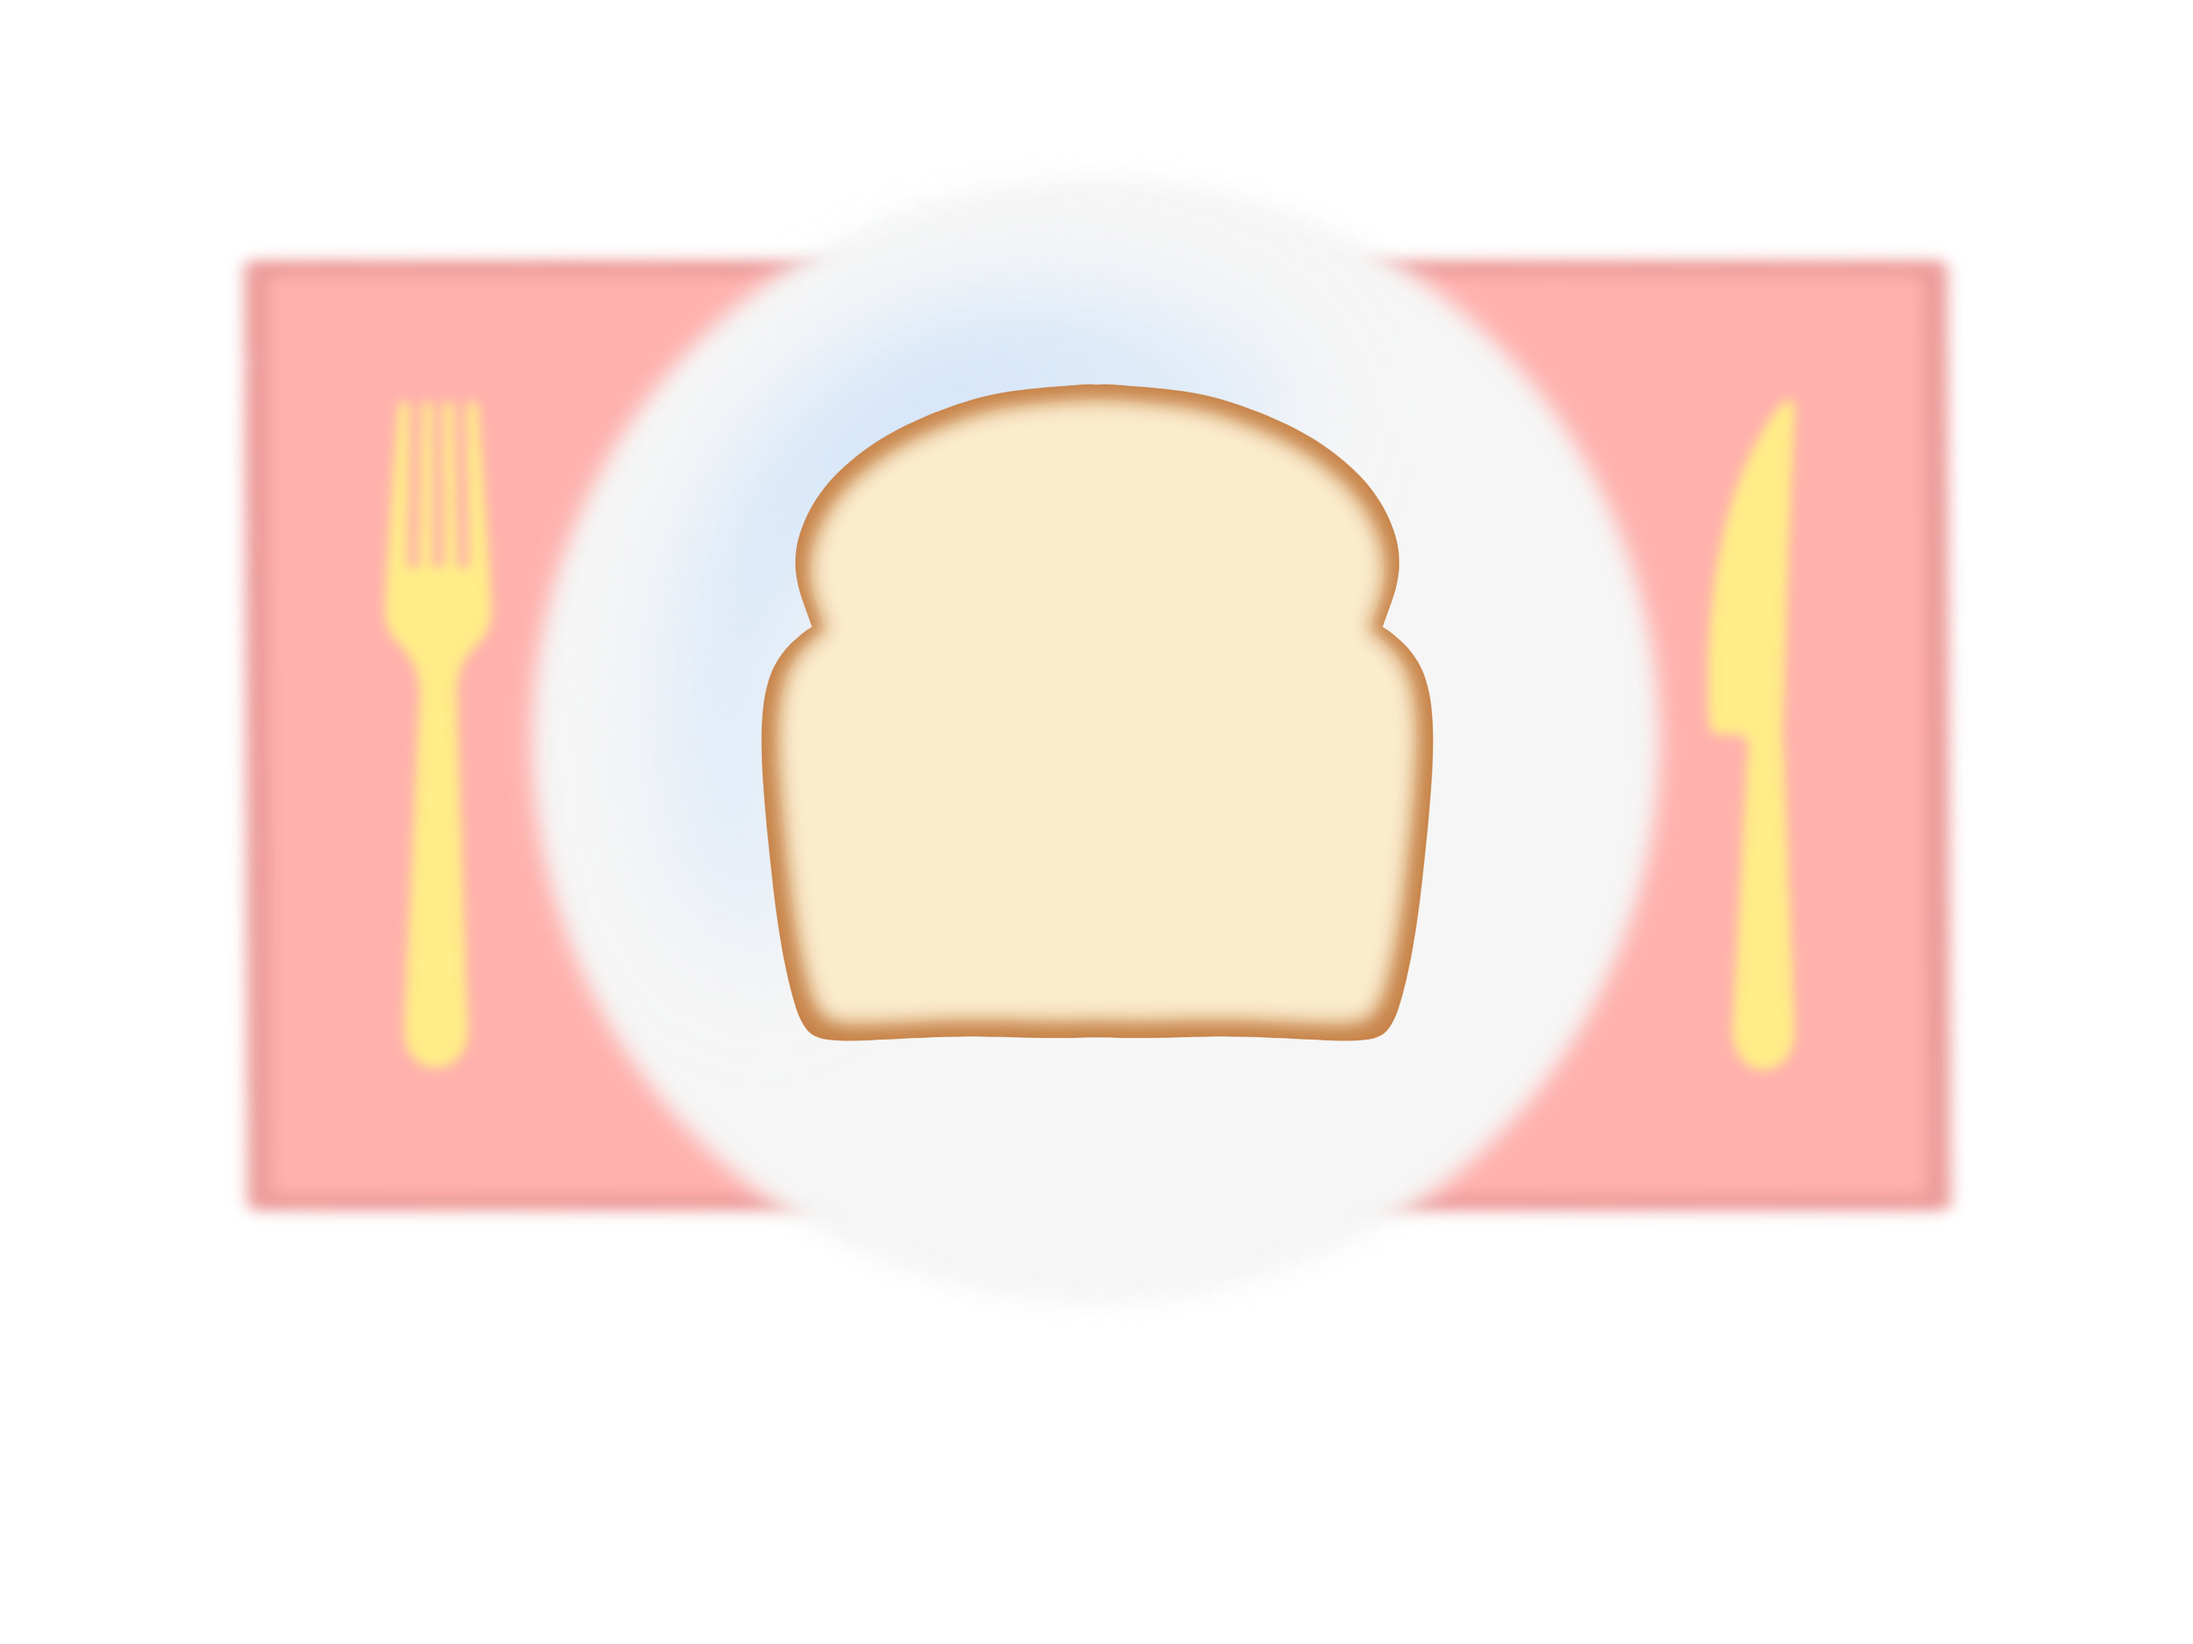
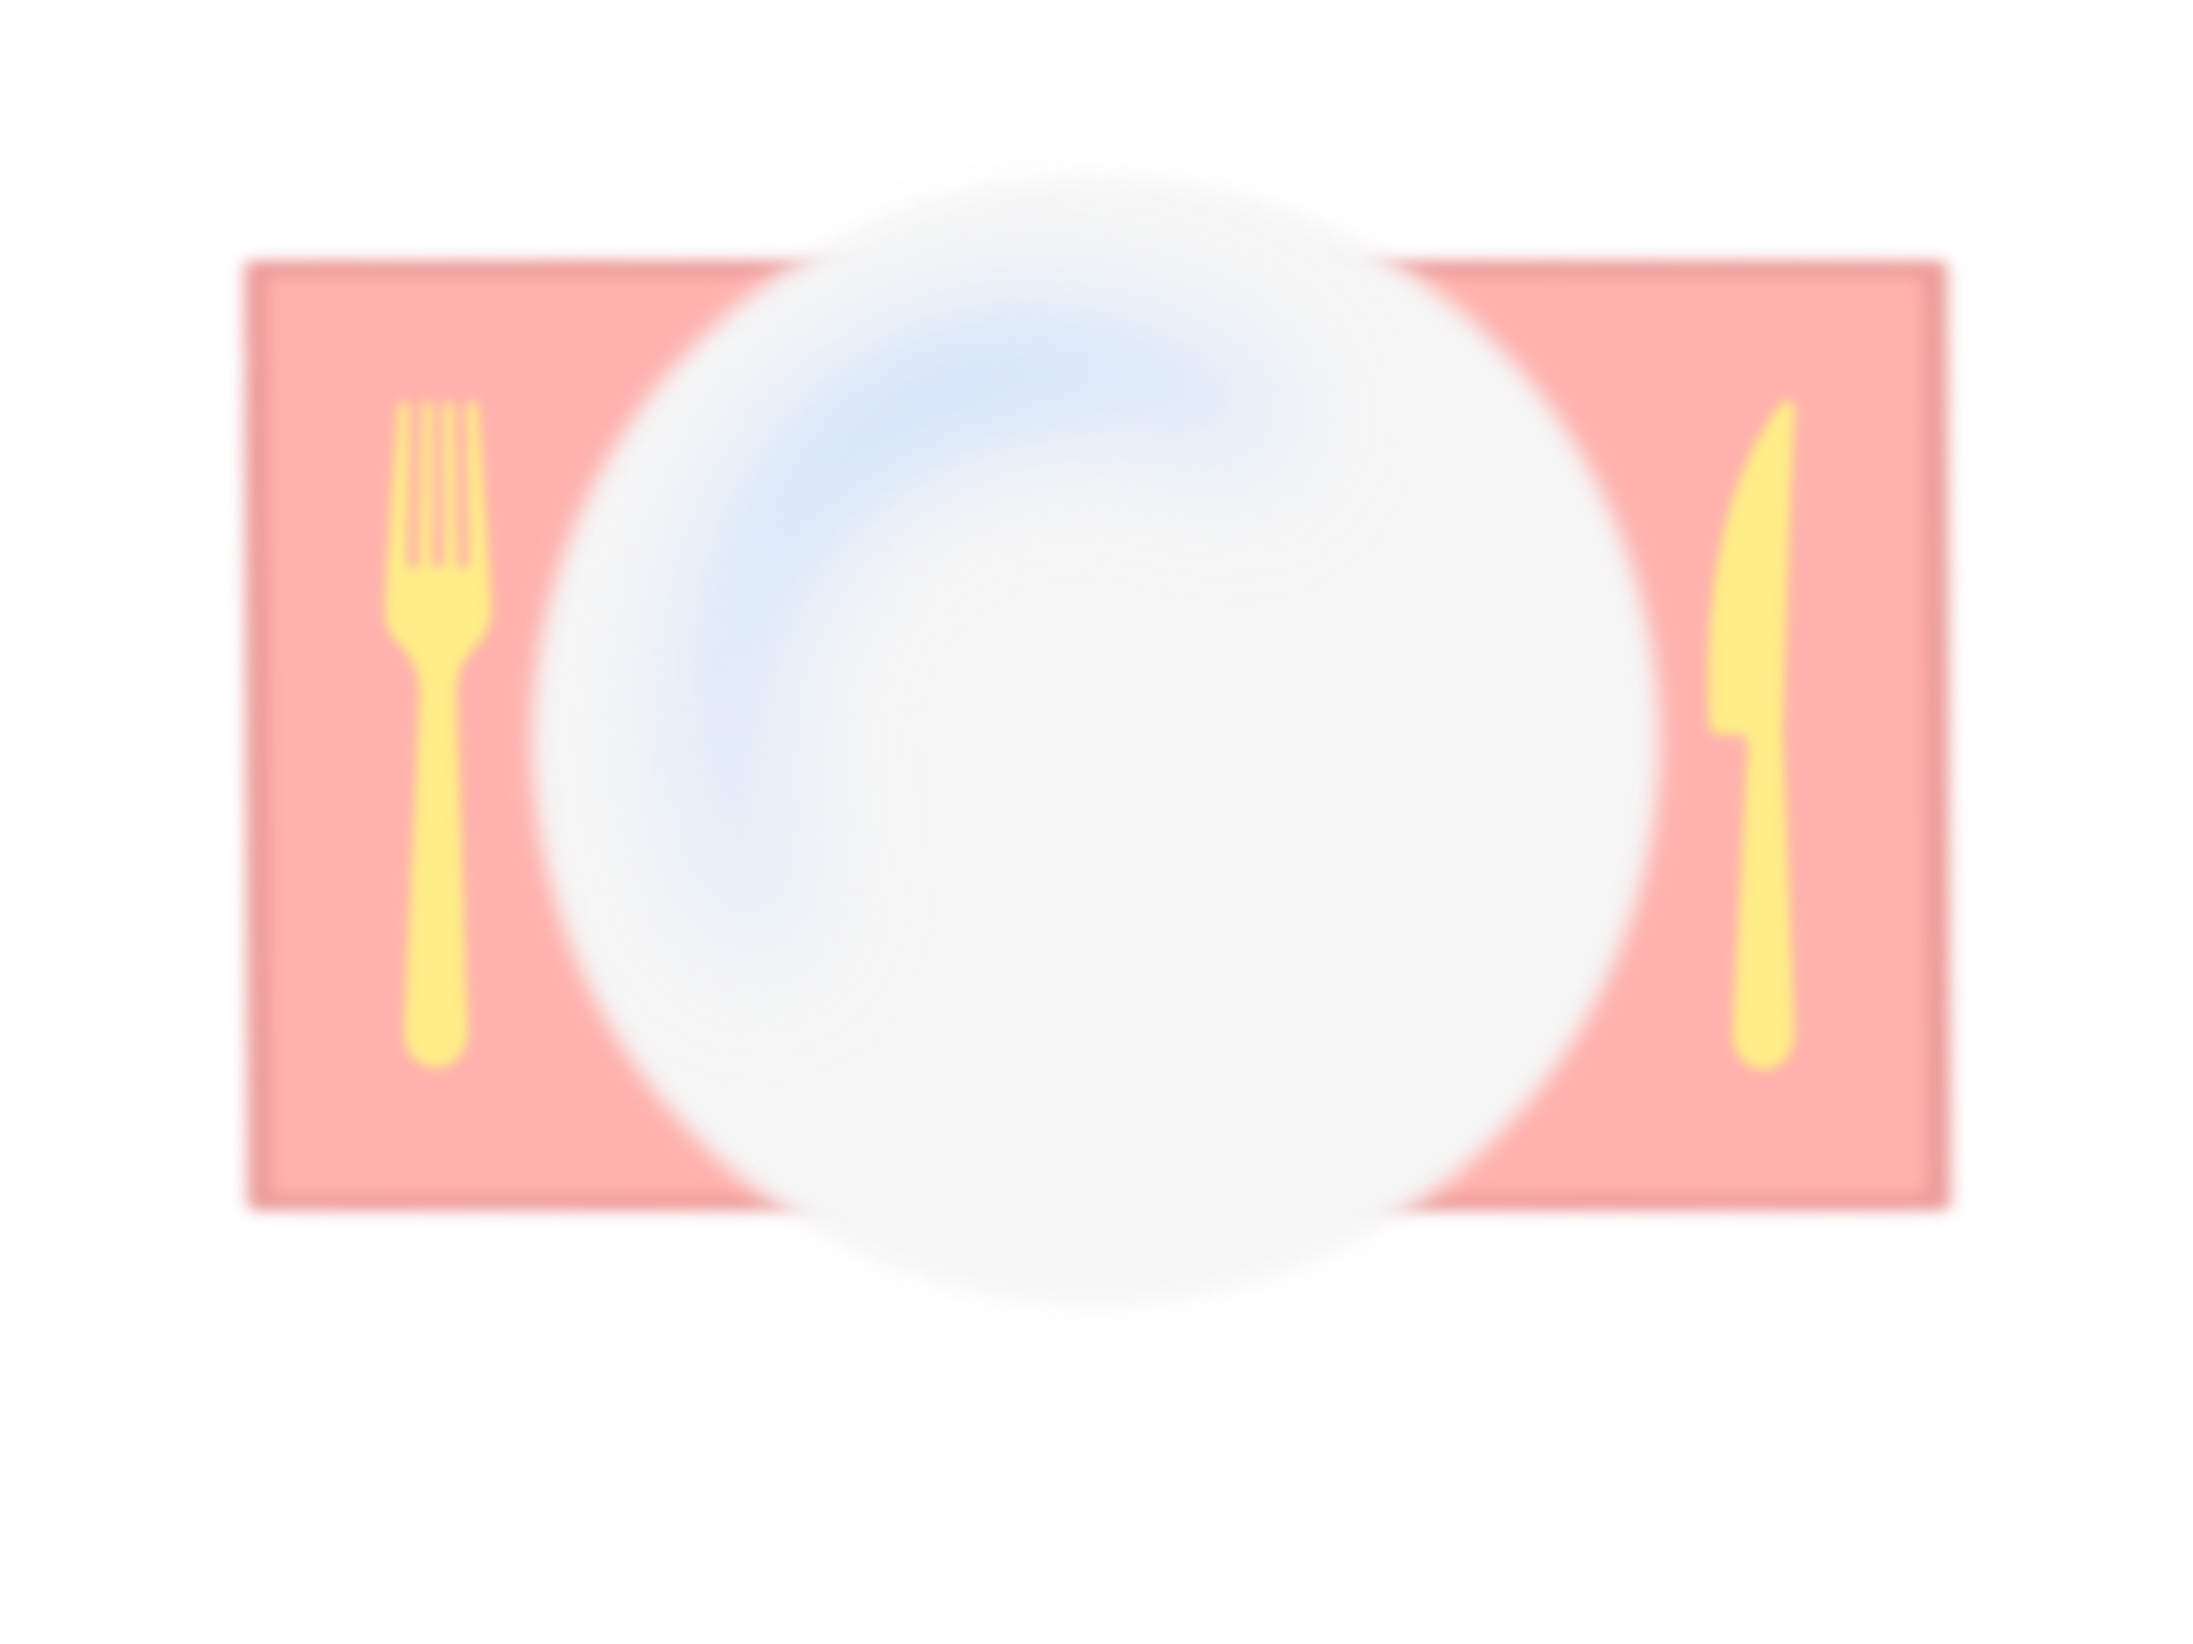
push

Changed region(s): [[0.3422, 0.2188, 0.6534, 0.6562]]

diff --git a/project-3/script.js b/project-3/script.js
@@ -23,12 +23,21 @@ function addIngredient(type) {
 
   ingredientStack.push(img);
   stack.appendChild(img);
+
+  // Save the sandwich stack to localStorage
+  saveSandwichToLocalStorage();
+}
+
+function saveSandwichToLocalStorage() {
+  const savedIngredients = ingredientStack.map(img => img.src);
+  localStorage.setItem("sandwich", JSON.stringify(savedIngredients));
 }
 
 function resetSandwich() {
   const stack = document.getElementById("ingredient-stack");
   stack.innerHTML = "";
   ingredientStack.length = 0;
+  localStorage.removeItem("sandwich"); // Clear saved sandwich when reset
 }
 
 function undoIngredient() {
@@ -36,12 +45,19 @@ function undoIngredient() {
     const stack = document.getElementById("ingredient-stack");
     const last = ingredientStack.pop();
     stack.removeChild(last);
+    saveSandwichToLocalStorage(); // Update localStorage after undo
   }
 }
 
+// Save sandwich to localStorage when ready to eat
+function saveSandwich() {
+  const sandwichImages = ingredientStack.map(img => img.src);
+  localStorage.setItem("sandwich", JSON.stringify(sandwichImages));
+  window.location.href = "result.html"; // Redirect to result page
+}
+
 function goHome() {
-    const stackData = ingredientStack.map(img => img.src);
-    localStorage.setItem("sandwich", JSON.stringify(stackData));
+    const srcList = ingredientStack.map(img => img.src);
+    localStorage.setItem("sandwich", JSON.stringify(srcList));
     window.location.href = "index.html";
   }
-  

diff --git a/project-3/index.html b/project-3/index.html
@@ -8,24 +8,20 @@
 </head>
 <body class="home">
   <div class="home-container">
-    <div class="sandwich-on-plate">
-      <img src="images/background-home.png" class="background" alt="Plate" />
-      <div id="saved-sandwich-stack"></div>
+
+    <div id="start-screen">
+      <button onclick="location.href='builder.html'">READY TO EAT A SANDWICH?</button>
     </div>
-    <button onclick="location.href='builder.html'" class="ingredient-btn">Make Another Sandwich</button>
+
+    <div id="result-screen" style="display:none;">
+      <div class="sandwich-area">
+        <img src="images/background-home.png" class="background" />
+        <div id="final-sandwich"></div>
+      </div>
+      <button class="ingredient-btn top-right" onclick="makeAnother()">Make Another Sandwich</button>
+    </div>
   </div>
 
-  <script>
-    const savedStack = JSON.parse(localStorage.getItem("sandwich")) || [];
-    const stackDiv = document.getElementById("saved-sandwich-stack");
-
-    savedStack.forEach((src, index) => {
-      const img = document.createElement("img");
-      img.src = src;
-      img.classList.add("ingredient-image");
-      img.style.zIndex = index + 2;
-      stackDiv.appendChild(img);
-    });
-  </script>
+  <script src="home.js"></script>
 </body>
 </html>

diff --git a/project-3/result.html b/project-3/result.html
@@ -1,0 +1,43 @@
+<!DOCTYPE html>
+<html lang="en">
+<head>
+  <meta charset="UTF-8" />
+  <meta name="viewport" content="width=device-width, initial-scale=1.0"/>
+  <title>Your Sandwich</title>
+  <link rel="stylesheet" href="style.css" />
+</head>
+<body class="home">
+  <div class="home-container">
+    <div id="result-screen" style="display: flex;">
+      <div class="sandwich-area">
+        <img src="images/background-home.png" />
+        <div id="final-sandwich"></div>
+    
+  </div>
+</div>
+<button class="ingredient-btn top-right" onclick="makeAnother()">Make Another Sandwich</button>
+</div>
+
+  <script>
+    const savedSandwich = JSON.parse(localStorage.getItem("sandwich"));
+
+    if (savedSandwich && savedSandwich.length > 0) {
+      const container = document.getElementById("final-sandwich");
+
+      savedSandwich.forEach((src, i) => {
+        const img = document.createElement("img");
+        img.src = src;
+        img.style.position = "absolute";
+        img.style.width = "100%"; 
+        img.style.zIndex = i + 1;
+        container.appendChild(img);
+      });
+    }
+
+    function makeAnother() {
+      localStorage.removeItem("sandwich"); 
+      window.location.href = "builder.html"; 
+    }
+  </script>
+</body>
+</html>

diff --git a/project-3/style.css b/project-3/style.css
@@ -34,6 +34,7 @@ body {
     width: 65%;
     height: 65%;
     padding-bottom: 1rem;
+    padding-top:0.5rem;
     margin: -2.5rem 0;
   }
   
@@ -97,7 +98,9 @@ body {
   }
   
   .top-controls{
-    margin:1.5rem;
+    margin:1rem;
+    /* display: flex;
+    justify-content: ; */
   }
 
   .sandwich-on-plate {
@@ -118,7 +121,30 @@ body {
     width: 100%;
   }
   
-
+  #final-sandwich {
+    position: relative;
+    width: 9350%; /* Adjust the width of the final sandwich container */
+    top: 10rem;
+    right: 9rem;
+    height: auto; /* Maintain the aspect ratio */
+    margin: 0 auto; /* Center the sandwich on the plate */
+  }
+  
+  #final-sandwich img {
+    position: absolute;
+    top: 50%;
+    left: 50%;
+    transform: translate(-50%, -50%) scale(1.5) rotate(-45deg); /* Scale and rotate the sandwich */
+    z-index: 1;
+  }
+  
+  .top-right{
+    position:fixed;
+    right: 1rem;
+    top: 1rem;
+    z-index: 10000;
+  }
+  
 
   @media (max-width: 1200px) {
     .ingredient-btn {

diff --git a/project-3/home.js b/project-3/home.js
@@ -1,0 +1,29 @@
+const savedSandwich = JSON.parse(localStorage.getItem("sandwich"));
+
+if (savedSandwich && savedSandwich.length > 0) {
+  document.getElementById("start-screen").style.display = "none";
+  document.getElementById("result-screen").style.display = "flex";
+
+  const container = document.getElementById("final-sandwich");
+
+  savedSandwich.forEach((src, i) => {
+    const img = document.createElement("img");
+    img.src = src;
+
+    // Check if the image source is a valid sandwich image (not an icon)
+    if (src.includes("images/") && !src.includes("icon")) {
+      img.style.position = "absolute";
+      img.style.width = "100%"; // Adjust width as needed
+      img.style.zIndex = i + 1;
+      img.classList.add("ingredient-image");
+
+      // Append the image to the final sandwich container
+      container.appendChild(img);
+    }
+  });
+}
+
+function makeAnother() {
+  localStorage.removeItem("sandwich");
+  window.location.href = "builder.html";
+}

diff --git a/project-3/builder.html b/project-3/builder.html
@@ -21,6 +21,7 @@
     </div>
 
     <div class="ingredient-list">
+        <button class="ingredient-btn" onclick="addIngredient('bread')">bread</button>
         <button class="ingredient-btn" onclick="addIngredient('butter')">butter</button>
         <button class="ingredient-btn" onclick="addIngredient('mayonnaise')">mayonnaise</button>
         <button class="ingredient-btn" onclick="addIngredient('mustard')">mustard</button>
@@ -53,7 +54,6 @@
         <button class="ingredient-btn" onclick="addIngredient('tuna')">tuna</button>
 
         <button class="ingredient-btn" onclick="addIngredient('cheese')">cheese</button>
-        <button class="ingredient-btn" onclick="addIngredient('bread')">bread</button>
         <button class="ingredient-btn" onclick="addIngredient('sushi')">sushi</button>
 
 
